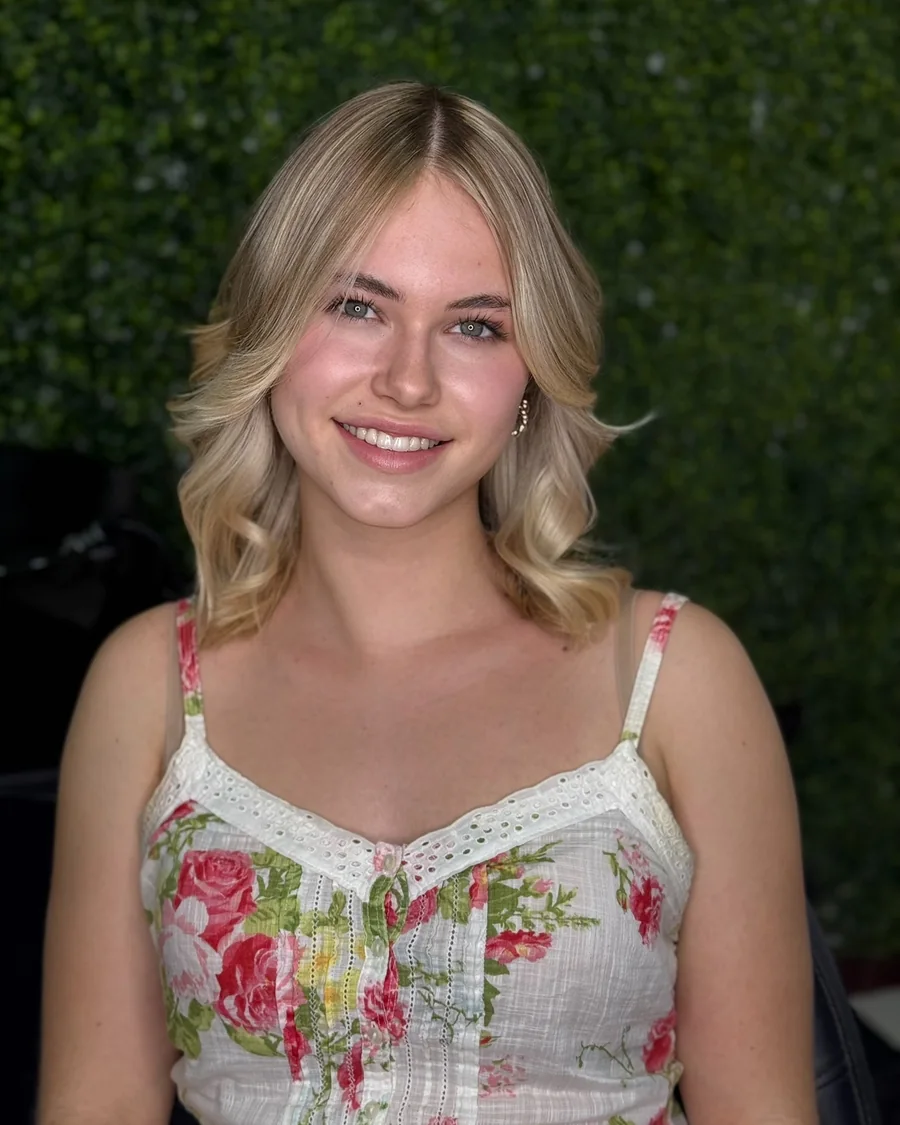
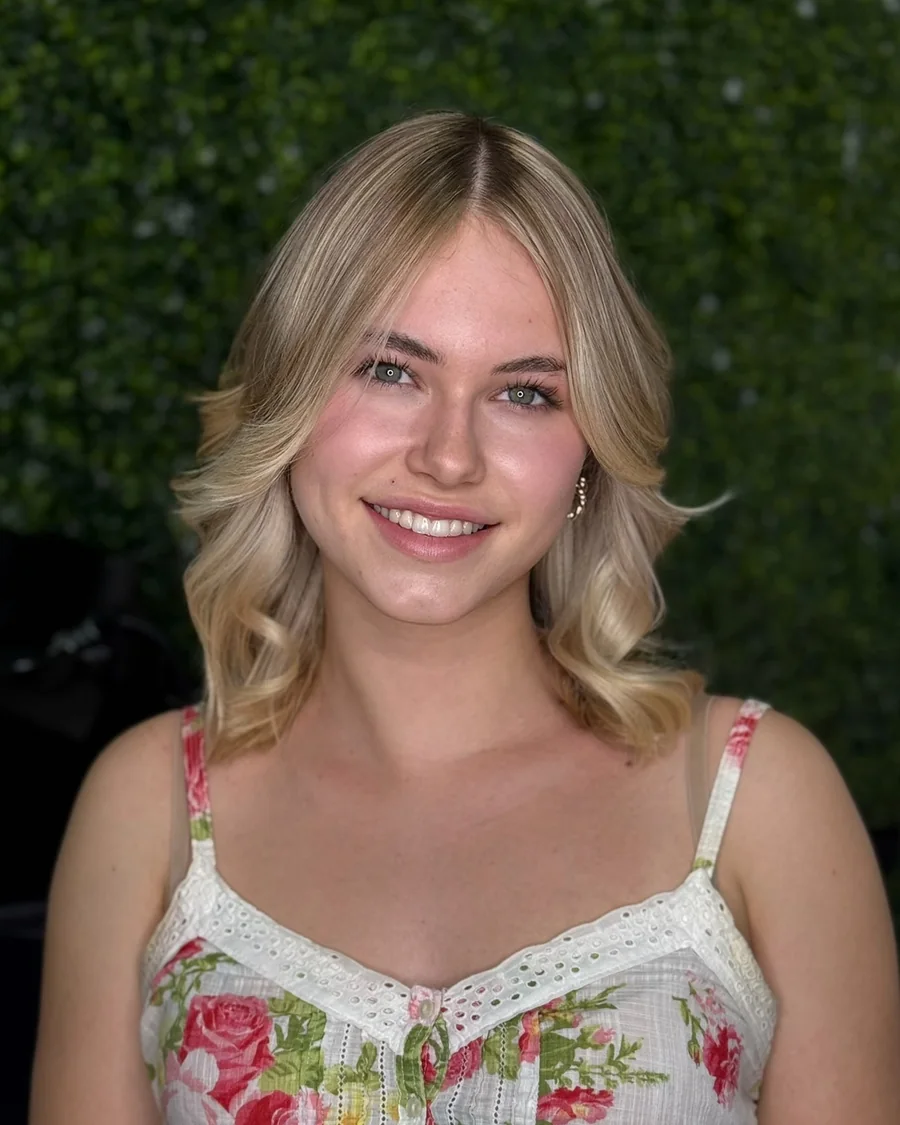
Portada: fotos 1 y 9 centradas y la 3 mas abajo

diff --git a/tools/procesar_medios_cliente.py b/tools/procesar_medios_cliente.py
@@ -28,14 +28,14 @@ FFMPEG = imageio_ffmpeg.get_ffmpeg_exe()
 # nombre: (ruta relativa a ORIGEN, (ancho, alto) o None = conservar proporción con ancho máx., ancho máx.)
 FOTOS = {
     # Inicio: portada (la rubia primero) y círculo de producto
-    'inicio-1': ('Pagina de incio/1.JPG', (900, 1125)),
+    'inicio-1': ('Pagina de incio/1.JPG', (900, 1125), {'foco': (0.455, 0.42), 'zoom': 1.15}),  # centrada
     'inicio-2': ('Pagina de incio/2.jpeg', (900, 1125)),
-    'inicio-3': ('Pagina de incio/3.jpeg', (900, 1125)),
+    'inicio-3': ('Pagina de incio/3.jpeg', (900, 1125), {'foco': (0.5, 0.0), 'zoom': 1.0}),  # se ve la parte de arriba
     'inicio-4': ('Pagina de incio/4.jpeg', (900, 1125)),
     'inicio-5': ('Pagina de incio/5.jpeg', (900, 1125)),
     'inicio-6': ('Pagina de incio/6.jpeg', (900, 1125)),
     'inicio-7': ('Pagina de incio/8.jpeg', (900, 1125)),
-    'inicio-8': ('Pagina de incio/9.jpeg', (900, 1125)),
+    'inicio-8': ('Pagina de incio/9.jpeg', (900, 1125), {'foco': (0.40, 0.42), 'zoom': 1.15}),  # centrada
     'producto-circulo': ('Productos/Producto1.png', (420, 420)),
     # "Tu imagen es el reflejo de quien eres"
     'reflejo-1': ('Tu imagen es el reflejo de quien eres/1.1.jpg', (700, 875)),
@@ -99,13 +99,26 @@ def correr(args):
     subprocess.run([FFMPEG, '-y', '-loglevel', 'error'] + args, check=True)
 
 
+def recorte(im, tam, foco=(0.5, 0.4), zoom=1.0):
+    """Recorta a la proporción de `tam` centrando en `foco` (x, y de 0 a 1); zoom > 1 acerca para poder centrar."""
+    rel = tam[0] / tam[1]
+    w, h = im.size
+    cw, ch = (w, w / rel) if w / h < rel else (h * rel, h)
+    cw, ch = cw / zoom, ch / zoom
+    x = min(max(foco[0] * w - cw / 2, 0), w - cw)
+    y = min(max(foco[1] * h - ch / 2, 0), h - ch) if foco[1] > 0 else 0
+    return im.crop((round(x), round(y), round(x + cw), round(y + ch))).resize(tam, Image.LANCZOS)
+
+
 def fotos():
     os.makedirs(MEDIA, exist_ok=True)
     for nombre, spec in FOTOS.items():
         ruta = os.path.join(ORIGEN, spec[0])
         im = ImageOps.exif_transpose(Image.open(ruta))
         im = im.convert('RGBA' if im.mode in ('RGBA', 'LA', 'P') else 'RGB')
-        if spec[1]:
+        if spec[1] and len(spec) > 2 and isinstance(spec[2], dict):
+            im = recorte(im, spec[1], **spec[2])
+        elif spec[1]:
             im = ImageOps.fit(im, spec[1], Image.LANCZOS, centering=(0.5, 0.4))
         else:
             maximo = spec[2]
